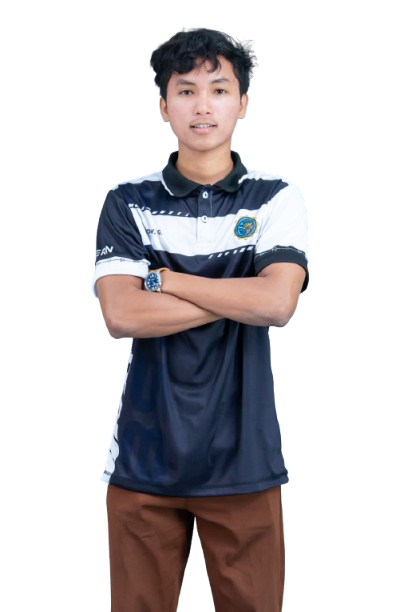
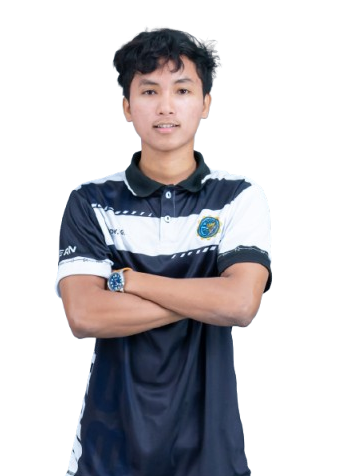
update

diff --git a/portfolio.html b/portfolio.html
@@ -48,13 +48,14 @@
         .nav-link {
             font-weight: bold;
             color: #2de300 !important;
-            
-            transition: transform 0.5s ease;
+            transition: transform 0.1s ease;
         }
 
         .nav-link:hover {
             border-bottom: 2px solid #2de300;
+            transform: translateY(-2px);
         }
+
 
         .card {
         background-color: #1c1c1e;
@@ -92,7 +93,7 @@
     <!-- Navbar -->
     <nav class="navbar navbar-expand-lg bg-deepblue sticky-top">
         <div class="container-fluid">
-        <a class="navbar-brand text-success fs-2" href="#">GIELO BANDOY</a>
+        <a class="navbar-brand text-success fs-2" href="#about">GIELO BANDOY</a>
         <button class="navbar-toggler" type="button" data-bs-toggle="collapse" data-bs-target="#navbarNav">
             <span class="navbar-toggler-icon"></span>
         </button>
@@ -109,23 +110,22 @@
     </nav>
 
     <!-- About Section -->
-    <section id="about" class="about-section bg-violet text-center align-items-center">
-        <div class="container">
+    <section id="about" class="about-section bg-violet text-center">
+        <div class="container align-items-center">
             <div class="col">
-                <div class="row">
-                    <div class="col-lg-6">
+                <div class="row justify-content-center">
+                    <div class="col-lg-4">
                         <img width="300px" height="500px" class="object-fit-cover" src="assets/profile/profile.png" alt="My Profile Picture">
                     </div>
-                    <div class="col-lg-6">
-                        <div class="card-body">
-                            <h1 class="text-warning">HI! I AM GIELO MAR BANDOY</h1>
+                    <div class="col-lg-8 align-items-center">
+                        <h1 class="text-warning" style="font-size: 5rem;">HI !</h1>
+                        <h2 class="text-warning" style="font-size: 4rem;">I AM GIELO MAR BANDOY</h2>
 
-                            <p>Web Developer | CodeIgniter4 Specialist | Practical UI Builder</p>
-                            <div class="mt-3">
-                                <a href="https://github.com/gmarxdev" target="_blank" class="btn btn-light btn-sm m-1"><i class="bi bi-github"></i> GitHub</a>
-                                <a href="https://facebook.com/gielomar.bandoy.94" target="_blank" class="btn btn-light btn-sm m-1"><i class="bi bi-facebook"></i> Facebook</a>
-                                <a href="https://instagram.com/gmarxdev" target="_blank" class="btn btn-light btn-sm m-1"><i class="bi bi-instagram"></i> Instagram</a>
-                            </div>
+                        <p>Web Developer | CodeIgniter4 Specialist | Practical UI Builder</p>
+                        <div class="mt-3">
+                            <a href="https://github.com/gmarxdev" target="_blank" class="btn btn-light btn-sm m-1"><i class="bi bi-github"></i> GitHub</a>
+                            <a href="https://facebook.com/gielomar.bandoy.94" target="_blank" class="btn btn-light btn-sm m-1"><i class="bi bi-facebook"></i> Facebook</a>
+                            <a href="https://instagram.com/gmarxdev" target="_blank" class="btn btn-light btn-sm m-1"><i class="bi bi-instagram"></i> Instagram</a>
                         </div>
                     </div>
                 </div>
